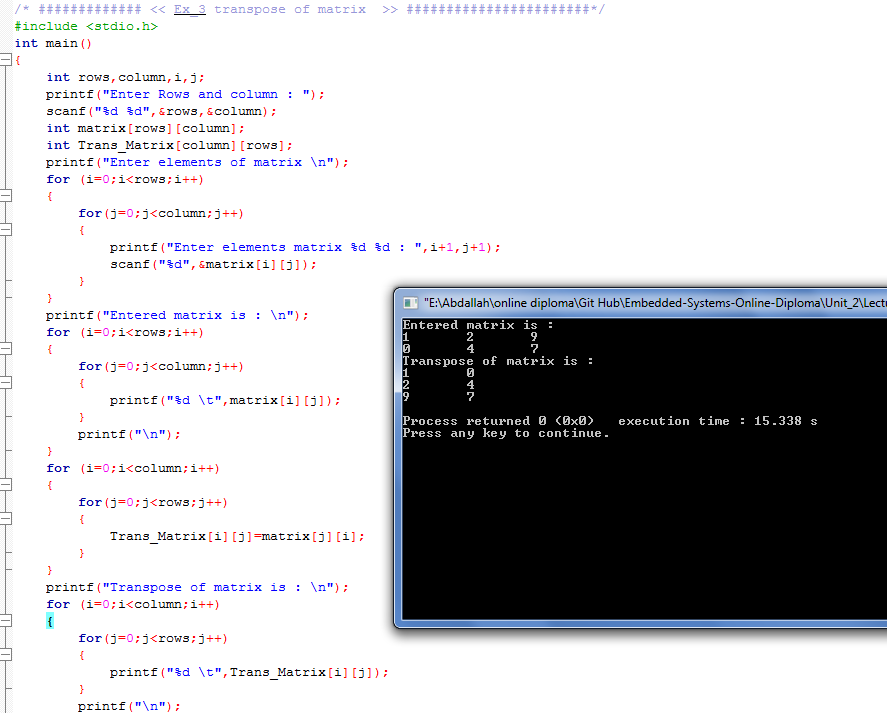
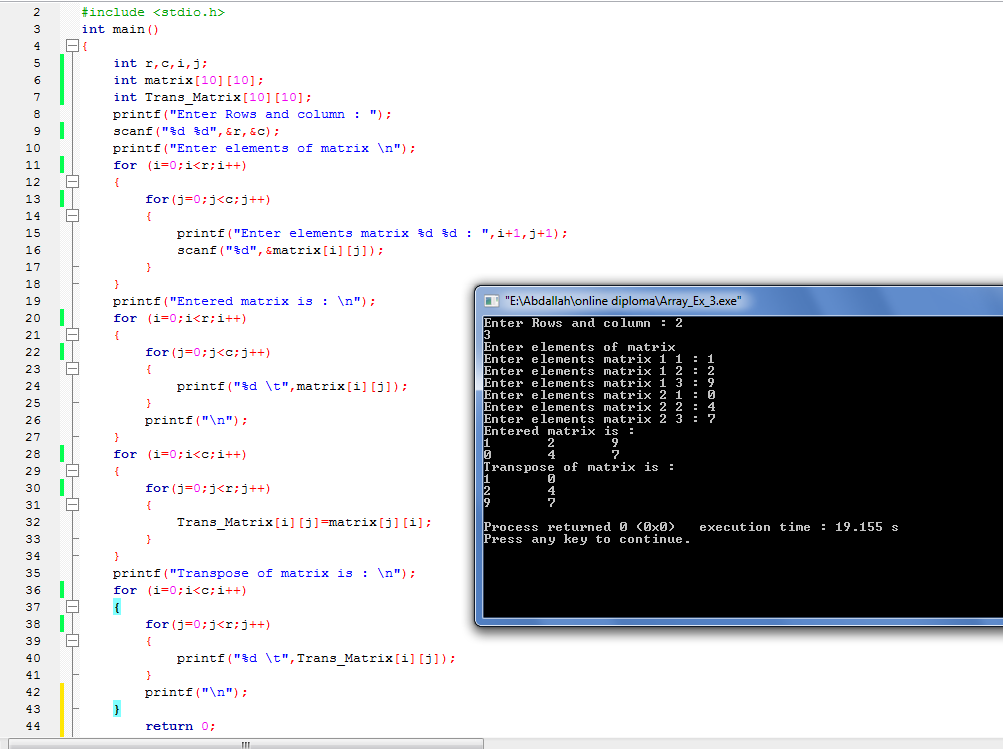
Change in Ex_3 in Array_Assignment

diff --git a/Unit_2/Lecture_4_C Array & String/Coods/Array_Ex_3.c b/Unit_2/Lecture_4_C Array & String/Coods/Array_Ex_3.c
@@ -1,41 +1,43 @@
+
+
 /* ############# << Ex_3 transpose of matrix  >> #######################*/
 #include <stdio.h>
 int main()
 {
-    int rows,column,i,j;
+    int r,c,i,j;
+    int matrix[10][10];
+    int Trans_Matrix[10][10];
     printf("Enter Rows and column : ");
-    scanf("%d %d",&rows,&column);
-    int matrix[rows][column];
-    int Trans_Matrix[column][rows];
+    scanf("%d %d",&r,&c);
     printf("Enter elements of matrix \n");
-    for (i=0;i<rows;i++)
+    for (i=0;i<r;i++)
     {
-        for(j=0;j<column;j++)
+        for(j=0;j<c;j++)
         {
             printf("Enter elements matrix %d %d : ",i+1,j+1);
             scanf("%d",&matrix[i][j]);
         }
     }
     printf("Entered matrix is : \n");
-    for (i=0;i<rows;i++)
+    for (i=0;i<r;i++)
     {
-        for(j=0;j<column;j++)
+        for(j=0;j<c;j++)
         {
             printf("%d \t",matrix[i][j]);
         }
         printf("\n");
     }
-    for (i=0;i<column;i++)
+    for (i=0;i<c;i++)
     {
-        for(j=0;j<rows;j++)
+        for(j=0;j<r;j++)
         {
             Trans_Matrix[i][j]=matrix[j][i];
         }
     }
     printf("Transpose of matrix is : \n");
-    for (i=0;i<column;i++)
+    for (i=0;i<c;i++)
     {
-        for(j=0;j<rows;j++)
+        for(j=0;j<r;j++)
         {
             printf("%d \t",Trans_Matrix[i][j]);
         }
@@ -43,9 +45,9 @@ int main()
     }
     return 0;
 }
-/*
-/* ############# << the same idea  >> #######################*/
 
+/* ############# << the same idea  >> #######################*/
+/*
 #include <stdio.h>
 int main()
 {
@@ -90,6 +92,4 @@ int main()
 
     return 0;
 }
-
-
 */
